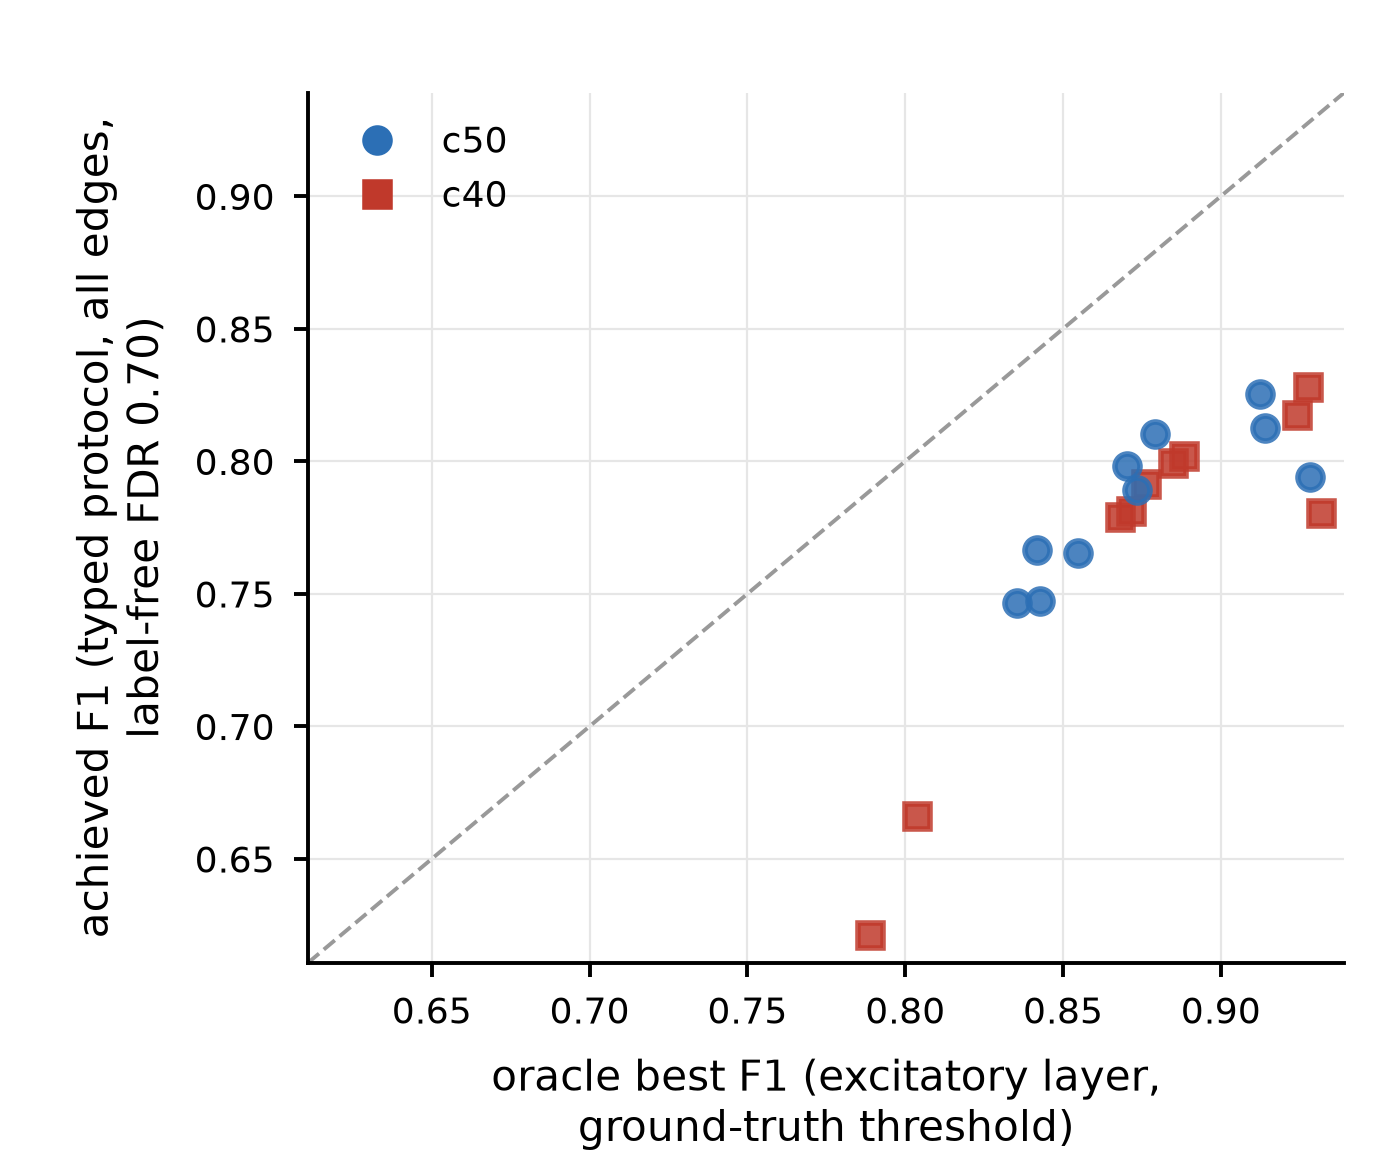
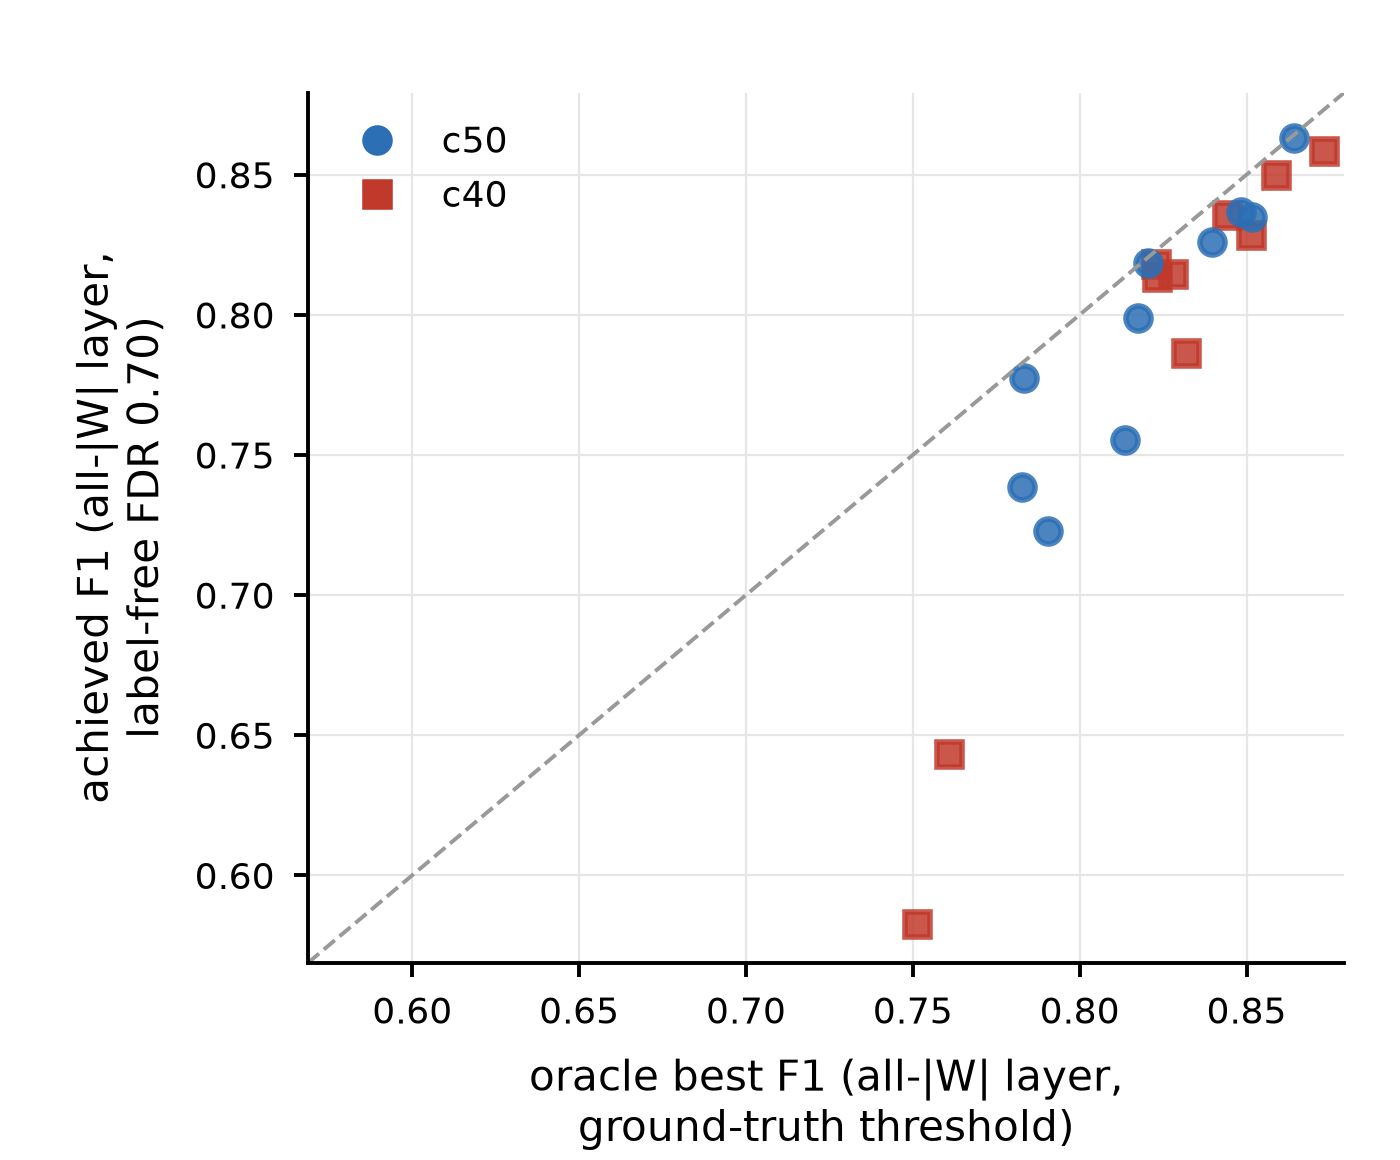
Oracle scatter replotted like-for-like on the all-|W| layer (gap 0.033)
Both axes now the deployed all-|W| layer: mean achieved-vs-oracle gap
0.033 F1 at n=200 (excitatory pair, gap 0.024, and typed achieved F1
kept in the CSV; durgrid has no typed oracle). Replaces the mixed
typed-vs-exc comparison whose 0.100 gap was mostly the layer change.

diff --git a/analysis/restyle_sweep_figures.py b/analysis/restyle_sweep_figures.py
@@ -176,8 +176,12 @@ def fig_fp_anatomy():
 
 
 def fig_oracle():
-    """Achieved (typed protocol, all edges) vs oracle ceiling; the ceiling is
-    computed on the EXCITATORY layer -- the axes say so explicitly."""
+    """Achieved vs oracle F1, scored like against like on the all-|W| layer
+    (the layer the deployed operating point thresholds). Comparing the typed
+    achieved F1 to the excitatory-layer oracle mixes two edge sets and
+    overstates the thresholding cost; the CSV keeps every layer's numbers so
+    both the 0.033 (all-|W|) and 0.024 (excitatory) gaps are on the record.
+    durgrid has no typed oracle, so typed gets no gap here."""
     grid = {}
     for p in sorted(glob.glob(os.path.join(OUT, "durgrid", "durgrid_*.json"))):
         d = json.load(open(p, encoding="utf-8"))
@@ -187,17 +191,26 @@ def fig_oracle():
     rows = []
     for s, pts in sorted(grid.items()):
         d = pts[max(pts)]
+
+        def at070(layer):
+            return [r for r in d["layers"][layer]["targets"]
+                    if abs(r["target"] - 0.7) < 1e-9][0]["f1"]
+
         orc_exc = d["layers"]["exc"]["oracle"]["best_f1"]
         orc_all = d["layers"]["all_absW"]["oracle"]["best_f1"]
-        ach = d["typed_at_070"]["f1"]
-        ax.plot(orc_exc, ach, "o" if "_c50_" in s else "s", ms=4.5,
+        ach_all = at070("all_absW")
+        ach_exc = at070("exc")
+        ax.plot(orc_all, ach_all, "o" if "_c50_" in s else "s", ms=4.5,
                 color=col(s), alpha=0.85)
         rows.append(dict(session=s, group="c50" if "_c50_" in s else "c40",
                          n_recordings=max(pts),
-                         oracle_best_f1_exc=round(orc_exc, 4),
                          oracle_best_f1_all_absW=round(orc_all, 4),
-                         achieved_f1_typed=round(ach, 4),
-                         gap_vs_exc_oracle=round(orc_exc - ach, 4)))
+                         achieved_f1_all_absW=round(ach_all, 4),
+                         gap_all_absW=round(orc_all - ach_all, 4),
+                         oracle_best_f1_exc=round(orc_exc, 4),
+                         achieved_f1_exc=round(ach_exc, 4),
+                         gap_exc=round(orc_exc - ach_exc, 4),
+                         achieved_f1_typed=round(d["typed_at_070"]["f1"], 4)))
     lim = ax.get_xlim() + ax.get_ylim()
     lo, hi = min(lim), max(lim)
     ax.plot([lo, hi], [lo, hi], "--", color="0.6", lw=0.7)
@@ -205,20 +218,20 @@ def fig_oracle():
     ax.set_ylim(lo, hi)
     ax.plot([], [], "o", ms=4.5, color=st.C50, label="c50")
     ax.plot([], [], "s", ms=4.5, color=st.C40, label="c40")
-    ax.set_xlabel("oracle best F1 (excitatory layer,\nground-truth threshold)")
-    ax.set_ylabel("achieved F1 (typed protocol, all edges,\n"
-                  "label-free FDR 0.70)")
+    ax.set_xlabel("oracle best F1 (all-|W| layer,\nground-truth threshold)")
+    ax.set_ylabel("achieved F1 (all-|W| layer,\nlabel-free FDR 0.70)")
     ax.legend(loc="upper left")
     p = os.path.join(OUT, "durgrid_all_oracle.png")
     fig.savefig(p, dpi=st.DPI, facecolor="white")
     plt.close(fig)
     print(p)
     write_csv("durgrid_all_oracle.csv",
-              ["session", "group", "n_recordings", "oracle_best_f1_exc",
-               "oracle_best_f1_all_absW", "achieved_f1_typed",
-               "gap_vs_exc_oracle"], rows)
-    gaps = [r["gap_vs_exc_oracle"] for r in rows]
-    print("mean achieved-vs-EXC-oracle gap: %.3f F1" % np.mean(gaps))
+              ["session", "group", "n_recordings", "oracle_best_f1_all_absW",
+               "achieved_f1_all_absW", "gap_all_absW", "oracle_best_f1_exc",
+               "achieved_f1_exc", "gap_exc", "achieved_f1_typed"], rows)
+    print("mean like-for-like gap: all-|W| %.3f | exc %.3f"
+          % (np.mean([r["gap_all_absW"] for r in rows]),
+             np.mean([r["gap_exc"] for r in rows])))
 
 
 if __name__ == "__main__":
